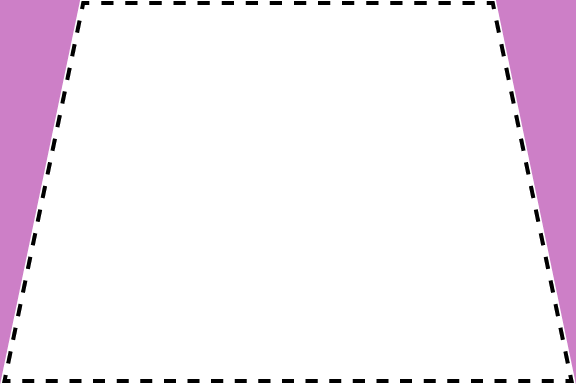
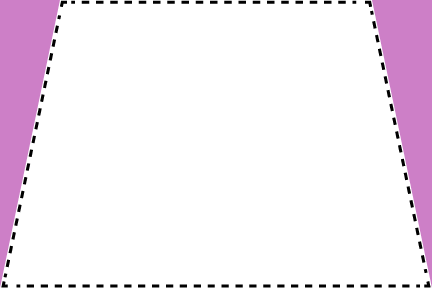
Resized art boundaries overlay graphic

diff --git a/src/App.vue b/src/App.vue
@@ -1,7 +1,7 @@
 <template>
   <div id="app">
-    <div class="grid-container">
-      <div class="add-column">
+    <div class="row">
+      <div class="col-sm-12 col-md-6">
         <accordion title="Canvas">
           <chrome-picker :value="color" @input="updateColor"></chrome-picker>
           <button type="button" name="set-background-color" @click="setCanvasBackgroundColor" class="btn btn-block">
@@ -41,8 +41,8 @@
         </accordion>
       </div>
 
-      <div class="canvas-column">
-        <canvas ref="c1" id="c1" width="576" height="384"></canvas>
+      <div class="col-sm-12 col-md-6">
+        <canvas ref="c1" id="c1" width="432" height="288"></canvas>
 
         <div class="canvas-toolbar">
           <button type="button" name="bring-forward" title="Bring forward" @click="sortLayer('up')" :disabled="!isActiveObject" class="btn">
@@ -68,6 +68,7 @@
 </template>
 
 <script>
+/* eslint-disable */
 import { fabric } from 'fabric'
 import FileUpload from './components/FileUpload.vue'
 import Accordion from './components/Accordion.vue'
@@ -75,9 +76,7 @@ import { saveAs } from 'file-saver'
 import canvasToBlob from 'canvas-toBlob'
 import { Chrome } from 'vue-color'
 
-const artAreaImg = require('./assets/art-area.png')
-
-const colors = {
+var colors = {
   hex: '#194d33',
   hsl: { h: 150, s: 0.5, l: 0.2, a: 1 },
   hsv: { h: 150, s: 0.66, v: 0.30, a: 1 },
@@ -128,6 +127,10 @@ export default {
     this.canvas = new fabric.Canvas('c1', { backgroundColor: "white" })
     this.canvas.setOverlayImage(require('./assets/art-boundaries.png'), this.canvas.renderAll.bind(this.canvas))
     this.canvas.on('mouse:down', this.checkActiveObject)
+    // window.addEventListener('keydown', this.removeObject);
+  },
+  destroyed: function() {
+    // window.removeEventListener('keydown', this.removeObject);
   },
   methods: {
     addImage () {
@@ -139,12 +142,12 @@ export default {
       this.imageObj = ''
     },
     addShape (shape, corners) {
-      let object
+      var object
       if (shape === 'circle') {
         object = new fabric.Circle({
           left: 100,
           top: 100,
-          fill: 'red',
+          fill: this.color,
           width: 20,
           height: 20
         });
@@ -153,7 +156,7 @@ export default {
         object = new fabric.Rect({
           left: 100,
           top: 100,
-          fill: 'red',
+          fill: this.color,
           width: 20,
           height: 20
         })
@@ -186,18 +189,18 @@ export default {
       this.isActiveObject = false
     },
     save () {
-      let resizedCanvas = document.createElement("canvas")
-      resizedCanvas.getContext("2d")
+      // ensure that the saved PNG is a certain size
+      var resizedCanvas = document.createElement("canvas")
+      var resizedContext = resizedCanvas.getContext("2d")
 
       resizedCanvas.height = "288"
       resizedCanvas.width = "432"
 
-      let originalCanvas = document.getElementById("c1")
-      originalCanvas.getContext("2d")
+      var canvas = document.getElementById("c1")
+      var context = canvas.getContext("2d")
 
-      resizedContext.drawImage(originalCanvas, 0, 0, 200, 100)
-
-      resizedCanvas.toBlob(blob => saveAs(blob, 'design.png'))
+      resizedContext.drawImage(canvas, 0, 0, 432, 288)
+      resizedCanvas.toBlob(blob => saveAs(blob, 'my-design.png'))
     },
     setCanvasBackgroundColor () {
       this.canvas.setBackgroundColor(this.color)
@@ -235,11 +238,11 @@ export default {
   -webkit-font-smoothing: antialiased;
   -moz-osx-font-smoothing: grayscale;
 }
-.grid-container {
+/* .grid-container {
   display: grid;
   grid-template-columns: 1fr 576px;
   grid-column-gap: 25px;
-}
+} */
 .add-column {
   display: flex;
   flex-direction: column;
